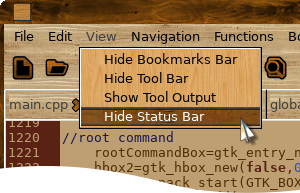
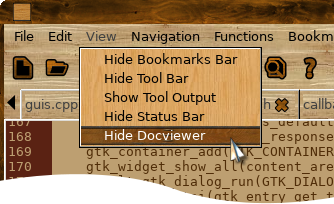
git-svn-id: file:///media/LinuxData/Development/SVN/KKEdit@765 923dfa19-3233-4c9e-86b8-84ae44b222e5

diff --git a/KKEdit/resources/help/help.html b/KKEdit/resources/help/help.html
@@ -250,6 +250,7 @@
 
 
 
+
                           In Popup" selected will show in the popup menu
                           regardless of w<font size="-1">hether any text
                             is or is not selected.<br>
@@ -266,6 +267,7 @@
                                   size="-1"><font size="-1"><font
                                       size="-1"><font size="-1"><font
                                           size="-1">/tmp/textfile</font></font></font></font></font></font></font></font></font>"|tail
+
 
 
 
@@ -337,10 +339,12 @@
 
 
 
+
                               of xterm and beyond</font></font> my
                           control :(<br>
                           <br>
                         </font>For very </font></font></font></font></font></font></font></font>complex
+
 
 
 
@@ -415,6 +419,7 @@
 
 
 
+
         one in /usr/share/KKEdit/tools ) you must have root privileges.</font><br>
       <hr size="2" width="100%"><br>
       <b><a name="prefsanc"></a></b><b>Preferences</b><br>
@@ -435,6 +440,7 @@
           The 'Run as Root Command' allows you to set your favorite
           graphical root privileges program, if this is blank a terminal
           will be used to ask for admin passwords ( <a href="#gtksui">See
+
 
 
 
@@ -533,6 +539,7 @@
           <img alt="popup" src="popup.png" width="606" height="640"><br>
           <br>
         </font></font><font size="-1"><a name="spellchk"></a></font><b>Spell
+
 
 
 
@@ -666,6 +673,7 @@
 
 
 
+
                         here</a><font size="-1"> )<font size="-1">, use
                           'gtksu --', ubuntu users may have to use
                           'gtksu -- sudo' to stop gtk3 complaining,
@@ -728,7 +736,9 @@
 
 
 
+
                                                   the <font size="-1">toolbar
+
 
 
 
@@ -764,6 +774,7 @@
                                                       size="-1">
                                                       searching
                                                       backwards </font>can
+
 
 
 
@@ -840,7 +851,9 @@
 
 
 
+
                                                         <font size="-1">A</font>ll'
+
 
 
 
@@ -877,6 +890,7 @@
                                                         confirm the
                                                         action.<br>
                                                         <font size="-1">The
+
 
 
 
@@ -948,6 +962,7 @@
 
 
 
+
         can jump to a line using the toolbar entry:</font><br>
       <img alt="jumptoline" src="gotolinefromtoolbar.png" width="736"
         height="358"><br>
@@ -975,7 +990,7 @@
         <br>
         You can also turn on/off various bits and peices from the 'View'
         menu:<br>
-        <img alt="" src="viewmenu.png" width="300" height="193"><br>
+        <img alt="" src="viewmenu.png" width="334" height="204"><br>
         <br>
       </font><b>Create </b><b>D</b><b>ocumentation with Doxygen</b><br>
       <img alt="" src="docs.png" width="808" height="636"><br>
@@ -1025,6 +1040,7 @@
                             size="-1"><font size="-1">(</font></font></font></font></font><font
                       size="-1"><font size="-1"><font size="-1"><font
                             size="-1"><font size="-1"><font size="-1">optional
+
 
 
 
@@ -1109,10 +1125,12 @@
 
 
 
+
                                                           but
                                                           recommended)<br>
                                                           <br>
                                                         </font></font></font></font></font></font></font></font></font></font></font></font></font>&nbsp;</font></font></font></font></font></font></font></font></font></font></font></font>webkit
+
 
 
 
